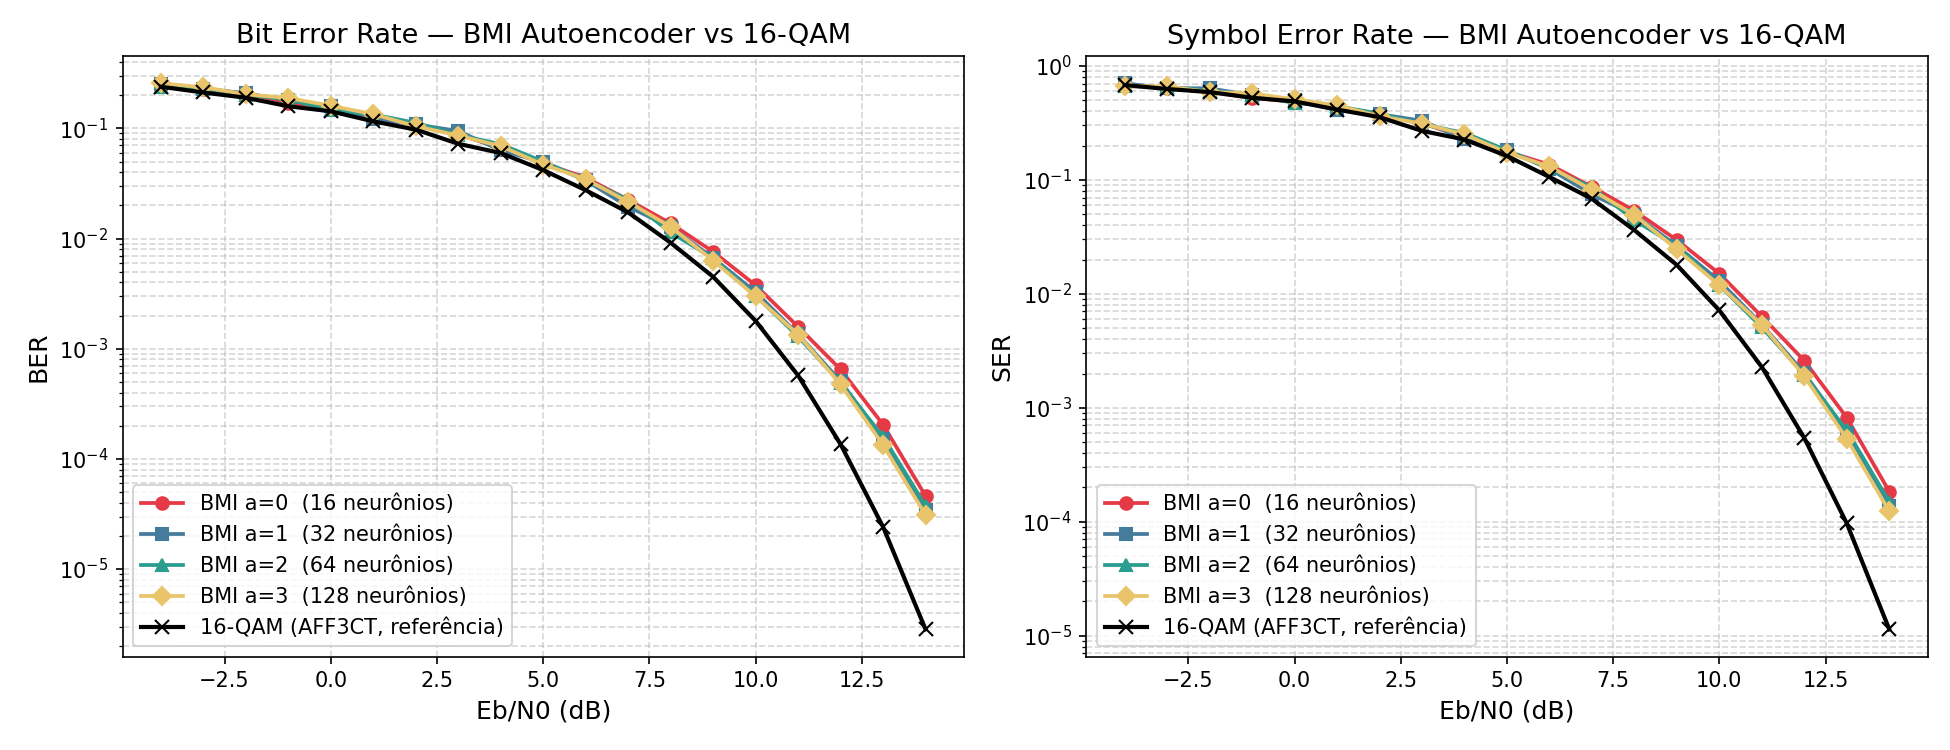
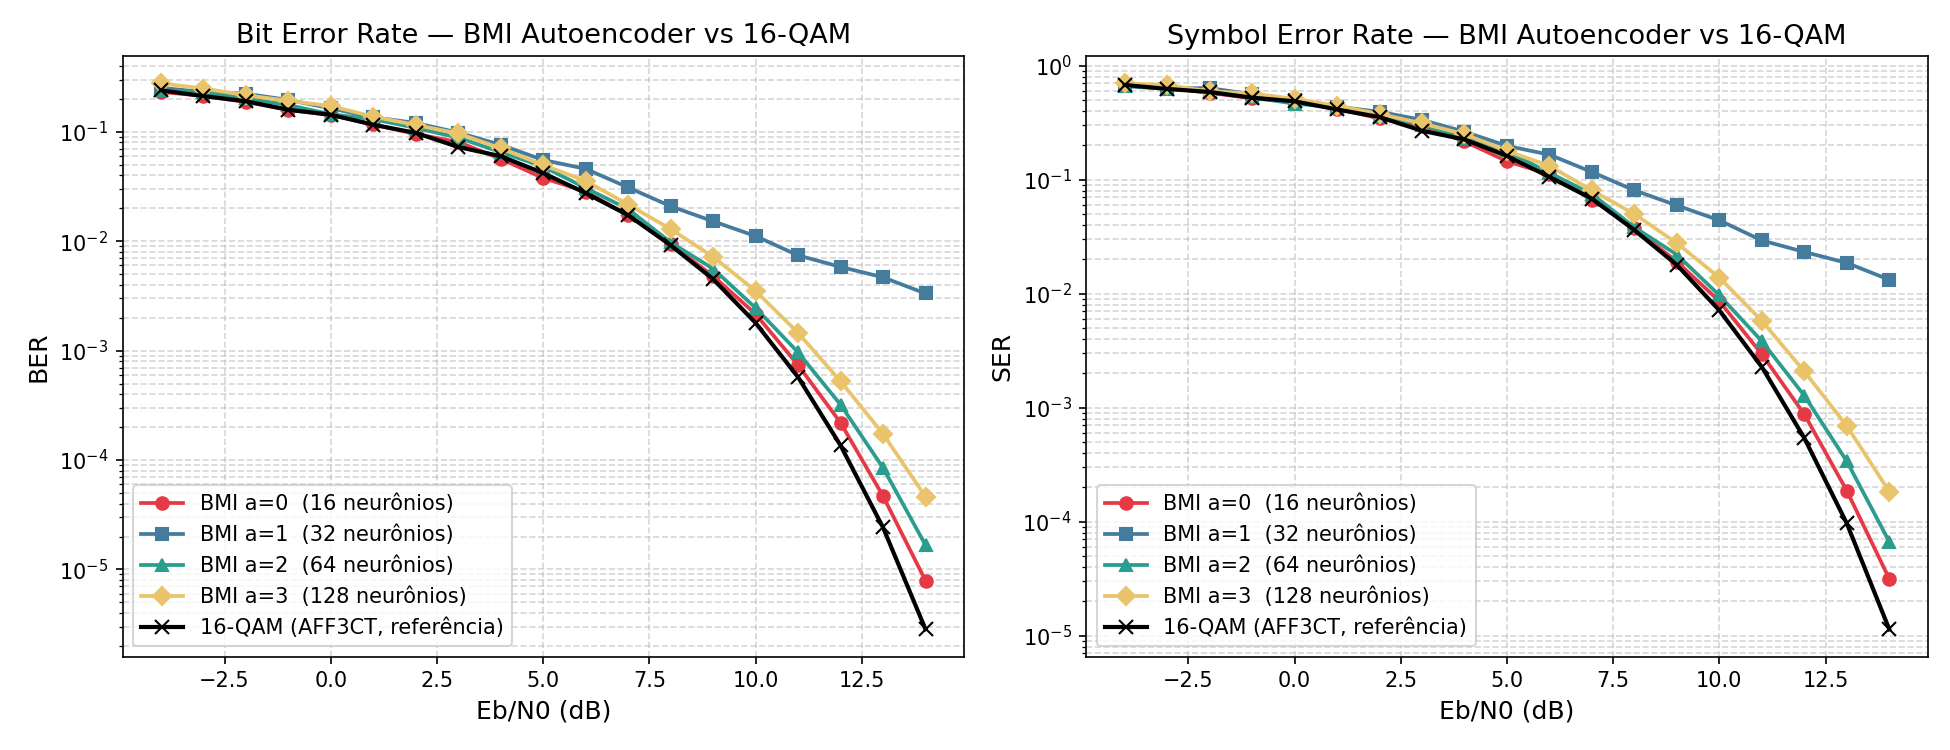
[Fix]: Unificação de BMI e Bit-wise.

diff --git a/libs/model_E2E.py b/libs/model_E2E.py
@@ -49,7 +49,7 @@ class End2EndSystem(tf.keras.Model):
     pois é chamado apenas para visualização e não faz parte do caminho crítico.
     """
 
-    def __init__(self, k, n, tx, rx, training=False, bit_wise=False, bmi=False):
+    def __init__(self, k, n, tx, rx, training=False, bit_wise=False):
         """
         Entradas:
           k:        Quantidade de bits de entrada por símbolo.
@@ -71,12 +71,9 @@ class End2EndSystem(tf.keras.Model):
         self.rng = tf.random.get_global_generator()
         self.transmitter = tx
         self.receiver = rx
-        self.bmi = bmi
 
-        if bmi:
+        if bit_wise:
             self.bce = tf.keras.losses.BinaryCrossentropy(from_logits=True)
-        elif bit_wise:
-            self.bce = tf.keras.losses.BinaryCrossentropy(from_logits=False)
         else:
             self.bce = tf.keras.losses.CategoricalCrossentropy(from_logits=False)
 
@@ -172,52 +169,27 @@ class End2EndSystem(tf.keras.Model):
         kernel de hardware — eliminando overhead de lançamento de kernels separados.
 
         NOTA SOBRE if/else Python vs tf.cond:
-            Os branches if self.bmi / if self.bit_wise são resolvidos em tempo de
+            Os branches if self.bit_wise são resolvidos em tempo de
             traçagem do grafo (tracing-time), não em runtime. Portanto, são branches
             Python legítimos que o XLA dobra em especializações do grafo — sem
             custo de runtime, sem necessidade de tf.cond.
         """
         bits = self.rng.uniform([batch_size, self.k], 0, 2, tf.int32)
 
-        # ------------------------------------------------------------------ #
-        # Modo BMI: constelação treinável 2D + receptor bit-wise com logits   #
-        # ------------------------------------------------------------------ #
-        if self.bmi:
-            indices = self.bits_to_indices(bits)
-            one_hot = tf.one_hot(indices, depth=self.M)
-            z       = self.transmitter(one_hot)
-            y       = self.add_GaussianNoise(z, ebno_db)
-            logits  = self.receiver(y)
-
-            if self.is_training:
-                bits_float = tf.cast(bits, tf.float32)
-                return self.bce(bits_float, logits)
-            else:
-                # Limiar em 0: logit ≥ 0 ↔ sigmoid ≥ 0.5
-                return bits, tf.cast(tf.math.greater_equal(logits, 0.0), tf.int32)
-
-        # ------------------------------------------------------------------ #
-        # Modos originais: bit-wise ou symbol-wise                            #
-        # ------------------------------------------------------------------ #
-        if self.bit_wise:
-            z = self.transmitter(bits)
-        else:
-            indices = self.bits_to_indices(bits)
-            one_hot = tf.one_hot(indices, depth=self.M)
-            z       = self.transmitter(one_hot)
-
-        y     = self.add_GaussianNoise(z, ebno_db)
-        recev = self.receiver(y)
+        indices = self.bits_to_indices(bits)
+        one_hot = tf.one_hot(indices, depth=self.M)
+        z       = self.transmitter(one_hot)
+        y       = self.add_GaussianNoise(z, ebno_db)
+        logits  = self.receiver(y)
 
         if self.is_training:
-            loss = self.bce(bits, recev) if self.bit_wise else self.bce(one_hot, recev)
-            return loss
+            bits_float = tf.cast(bits, tf.float32)
+            return self.bce(bits_float, logits) if self.bit_wise else self.bce(one_hot, logits)
         else:
             if self.bit_wise:
-                bits_hat = tf.cast(tf.math.greater_equal(recev, 0.5), tf.int32)
-                return bits, bits_hat
+                return bits, tf.cast(tf.math.greater_equal(logits, 0.0), tf.int32)
             else:
-                return bits, self.indices_to_bits(tf.math.argmax(recev, axis=-1))
+                return bits, self.indices_to_bits(tf.math.argmax(logits, axis=-1))
 
     # ---------------------------------------------------------------------- #
     # Visualização — mantida fora do grafo XLA intencionalmente               #
@@ -240,14 +212,11 @@ class End2EndSystem(tf.keras.Model):
                 axis=[1]
             )
 
-        if self.bmi or not self.bit_wise:
-            indices = self.bits_to_indices(bits)
-            one_hot = tf.one_hot(indices, depth=self.M)
-            z       = self.transmitter(one_hot)
-        else:
-            z = self.transmitter(bits)
+        indices = self.bits_to_indices(bits)
+        one_hot = tf.one_hot(indices, depth=self.M)
+        z       = self.transmitter(one_hot)
 
-        if bits is None or self.bmi or not self.bit_wise:
+        if bits is None or not self.bit_wise:
             return bits, z
         return z
 

diff --git a/Compare_BMI_FL.py b/Compare_BMI_FL.py
@@ -96,8 +96,8 @@ for a in A_VALUES:
         bmi_tx = Net_BMI.transmitter(k)
         bmi_rx = Net_BMI.receiver(k, a=a)
 
-        bmi_model_train = End2EndSystem(k, n, bmi_tx, bmi_rx, training=True,  bmi=True)
-        bmi_model       = End2EndSystem(k, n, bmi_tx, bmi_rx, training=False, bmi=True)
+        bmi_model_train = End2EndSystem(k, n, bmi_tx, bmi_rx, training=True,  bit_wise=True)
+        bmi_model       = End2EndSystem(k, n, bmi_tx, bmi_rx, training=False, bit_wise=True)
 
         # Taxa de aprendizado decrescente (Cosine Decay)
         lr_schedule = tf.keras.optimizers.schedules.CosineDecay(

diff --git a/libs/tf_config.py b/libs/tf_config.py
@@ -1,11 +1,11 @@
 import os
 
-os.environ['TF_CPP_MIN_LOG_LEVEL'] = '3'
+#os.environ['TF_CPP_MIN_LOG_LEVEL'] = '3'
 
 # Respeita a variável de ambiente CUDA_HOME, com fallback para o caminho padrão
-_cuda_path = os.environ.get('CUDA_HOME', '/usr/lib/cuda')
-os.environ['XLA_FLAGS'] = f'--xla_gpu_cuda_data_dir={_cuda_path}'
+#_cuda_path = os.environ.get('CUDA_HOME', '/usr/lib/cuda')
+#os.environ['XLA_FLAGS'] = f'--xla_gpu_cuda_data_dir={_cuda_path}'
 
 import tensorflow as tf
 # Avoid warnings from TensorFlow
-tf.get_logger().setLevel('ERROR')
+#tf.get_logger().setLevel('ERROR')
